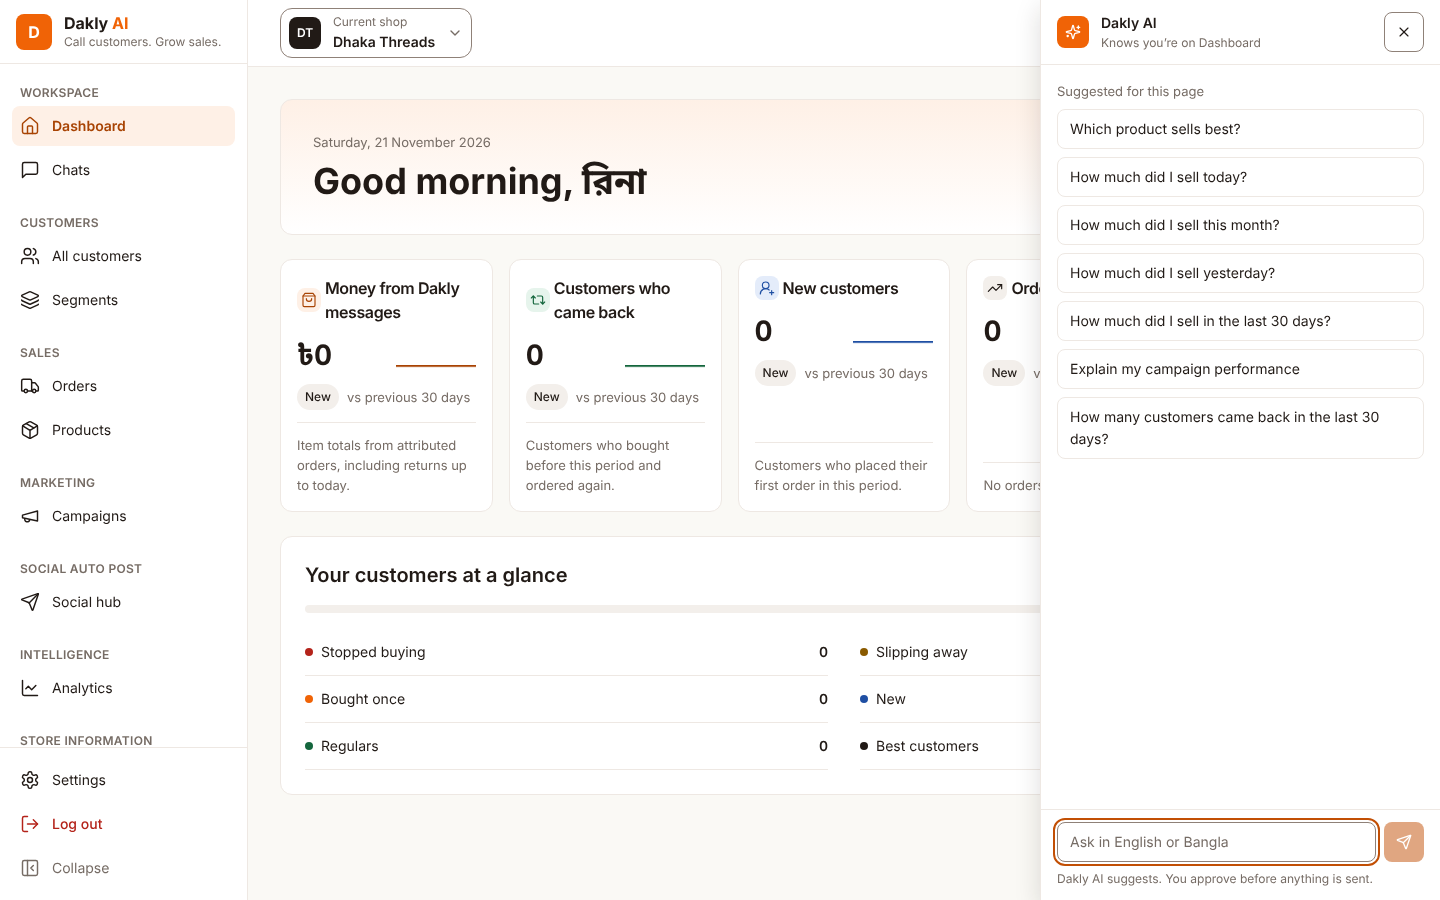
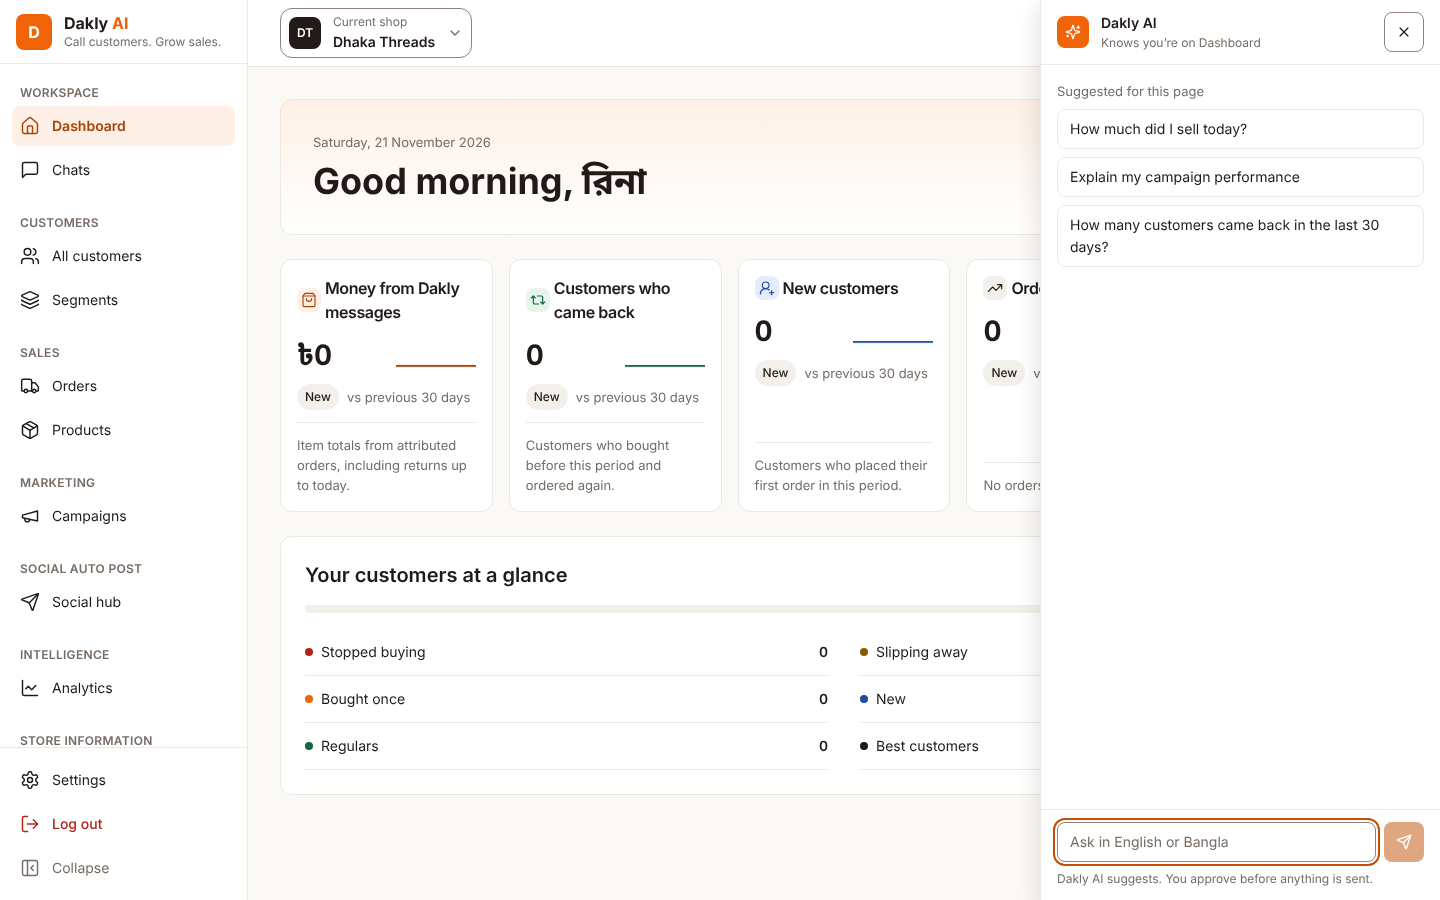
feat(home-7): show the first three suggestions the member may ask, in priority order

diff --git a/apps/web/src/features/assistant/components/ask-dakly.spec.tsx b/apps/web/src/features/assistant/components/ask-dakly.spec.tsx
@@ -77,7 +77,7 @@ describe('Ask Dakly AI panel', () => {
     expect(navigation.replaced).toEqual(['/dashboard?ask=open']);
   });
 
-  it('shows the page it is on, a suggestion for every report and the approval note', () => {
+  it('shows the page it is on, three suggestions and the approval note', () => {
     show();
     const panel = screen.getByRole('complementary', { name: 'Dakly AI' });
     expect(within(panel).getByText('Knows you’re on Dashboard')).toBeTruthy();
@@ -86,11 +86,7 @@ describe('Ask Dakly AI panel', () => {
         .getAllByRole('button', { name: suggestionName })
         .map((button) => button.textContent),
     ).toEqual([
-      'Which product sells best?',
       'How much did I sell today?',
-      'How much did I sell this month?',
-      'How much did I sell yesterday?',
-      'How much did I sell in the last 30 days?',
       'Explain my campaign performance',
       'How many customers came back in the last 30 days?',
     ]);
@@ -104,11 +100,9 @@ describe('Ask Dakly AI panel', () => {
     expect(
       screen.getAllByRole('button', { name: suggestionName }).map((b) => b.textContent),
     ).toEqual([
-      'Which product sells best?',
       'How much did I sell today?',
+      'Which product sells best?',
       'How much did I sell this month?',
-      'How much did I sell yesterday?',
-      'How much did I sell in the last 30 days?',
     ]);
   });
 

diff --git a/apps/web/src/features/assistant/ask-suggestions.ts b/apps/web/src/features/assistant/ask-suggestions.ts
@@ -1,10 +1,13 @@
-// Each one is answered by a report tool, and shows only when the member's role can view that report.
+export const MAX_SUGGESTIONS = 3;
+
+// In priority order. Each one is answered by a report tool and shows only when the member's role can
+// view that report; the first few the member may ask are shown.
 export const askSuggestions = [
-  { text: 'Which product sells best?', canAsk: 'canViewOrders' },
   { text: 'How much did I sell today?', canAsk: 'canViewOrders' },
+  { text: 'Explain my campaign performance', canAsk: 'canViewAnalytics' },
+  { text: 'How many customers came back in the last 30 days?', canAsk: 'canViewCustomers' },
+  { text: 'Which product sells best?', canAsk: 'canViewOrders' },
   { text: 'How much did I sell this month?', canAsk: 'canViewOrders' },
   { text: 'How much did I sell yesterday?', canAsk: 'canViewOrders' },
   { text: 'How much did I sell in the last 30 days?', canAsk: 'canViewOrders' },
-  { text: 'Explain my campaign performance', canAsk: 'canViewAnalytics' },
-  { text: 'How many customers came back in the last 30 days?', canAsk: 'canViewCustomers' },
 ] as const;

diff --git a/apps/web/src/features/assistant/components/ask-dakly-panel.tsx b/apps/web/src/features/assistant/components/ask-dakly-panel.tsx
@@ -9,7 +9,7 @@ import { Button } from '@dakly/ui/button';
 import { Input } from '@dakly/ui/input';
 
 import { useAskDakly } from '../api/ask-dakly';
-import { askSuggestions } from '../ask-suggestions';
+import { askSuggestions, MAX_SUGGESTIONS } from '../ask-suggestions';
 import { useSessionContext } from '@/lib/session-context';
 
 export type Turn =
@@ -198,7 +198,9 @@ function Composer({ question, onQuestion, onSend, isPending, creditsLeft }: Comp
 
 function Suggestions({ onPick, disabled }: { onPick: (text: string) => void; disabled: boolean }) {
   const { data } = useSessionContext();
-  const shown = askSuggestions.filter(({ canAsk }) => data?.currentStore?.[canAsk]);
+  const shown = askSuggestions
+    .filter(({ canAsk }) => data?.currentStore?.[canAsk])
+    .slice(0, MAX_SUGGESTIONS);
   if (!shown.length) return null;
   return (
     <section aria-label="Suggested for this page" className="space-y-2">

diff --git a/docs/features/10-dashboard-and-notifications.md b/docs/features/10-dashboard-and-notifications.md
@@ -268,7 +268,7 @@ How it runs (HOME-4 part 1):
 Web (HOME-4 part 2):
 
 1. The dark Ask Dakly AI button in the top bar (icon only on a phone) opens a panel on the right edge, full width on a phone. The panel is open when the `ask` search parameter is `open`, so a link can open it.
-2. The panel shows the page it is on when it knows the page, a suggestion for each report (best selling product, sales today, this month, yesterday and the last 30 days, campaign performance and customers who came back, each shown only when the role can view that report), the conversation, an input and the line "Dakly AI suggests. You approve before anything is sent." Each answer shows its sources under the text ("From Orders, last 30 days") and the credits left appear under the input after the first answer. The conversation lasts until the shop is switched or the page is reloaded; saved history is HOME-6.
+2. The panel shows the page it is on when it knows the page, up to three suggestions, the first the member may ask from this list: sales today, campaign performance, customers who came back, best selling product, sales this month, yesterday and the last 30 days (each shown only when the role can view that report), the conversation, an input and the line "Dakly AI suggests. You approve before anything is sent." Each answer shows its sources under the text ("From Orders, last 30 days") and the credits left appear under the input after the first answer. The conversation lasts until the shop is switched or the page is reloaded; saved history is HOME-6.
 3. A busy or paused AI shows "Dakly AI is busy. Try again in a minute." and puts the question back in the input. No credits shows that they are used up for the plan period.
 4. Waits on other work: Full view and the Ask Dakly AI page (HOME-6), the Ask box on the Dashboard, suggestions that differ per page, a customer-targeting suggestion (no tool covers it), the top-up button (no billing screen yet), feedback buttons, and the action buttons under an answer.
 
